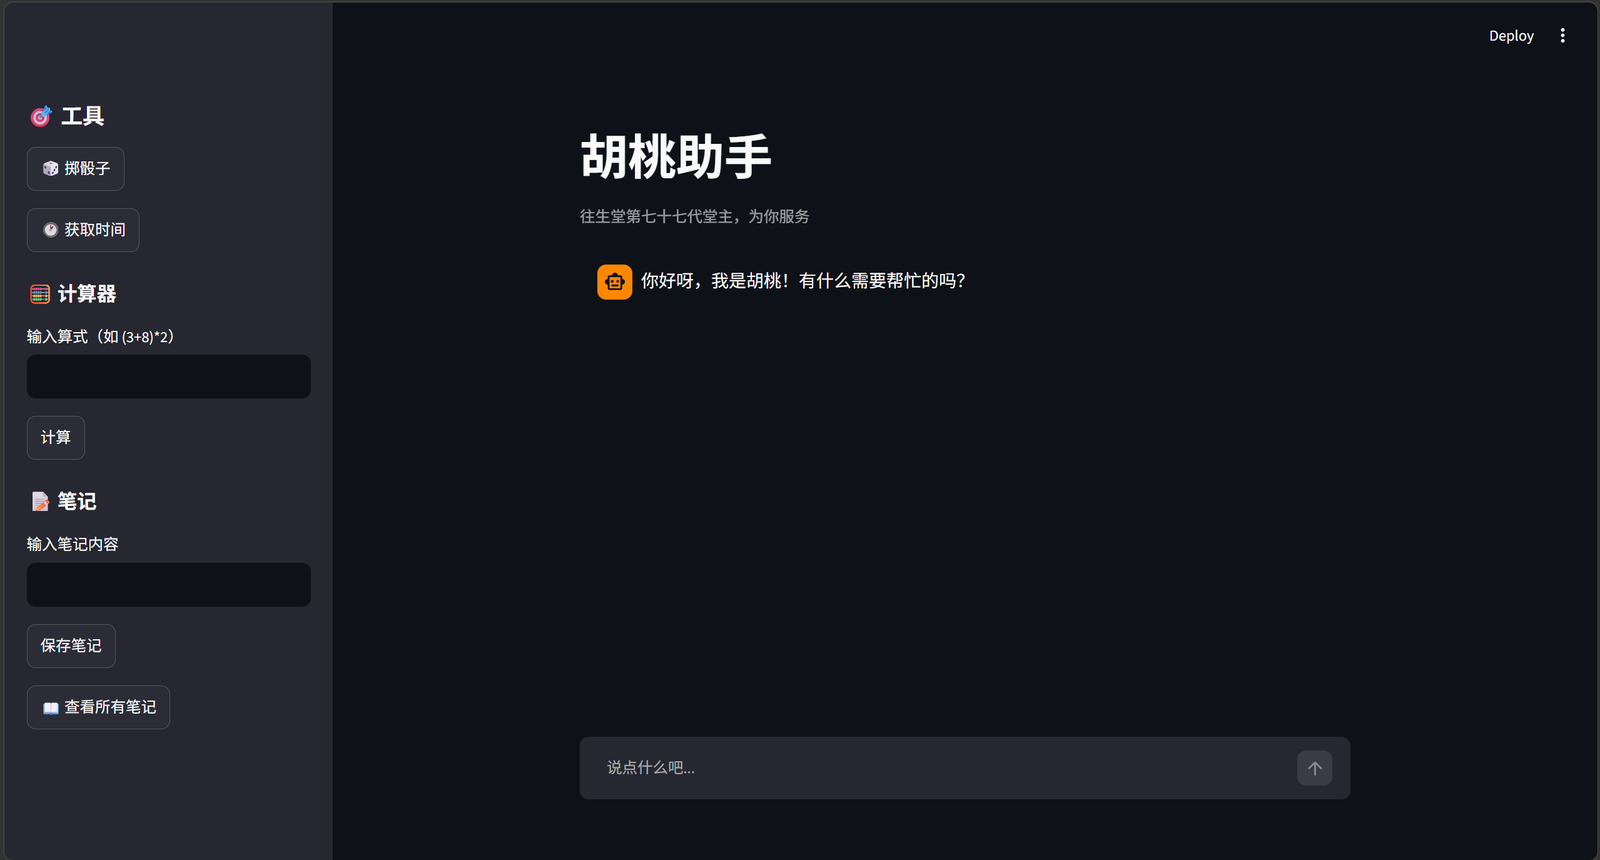
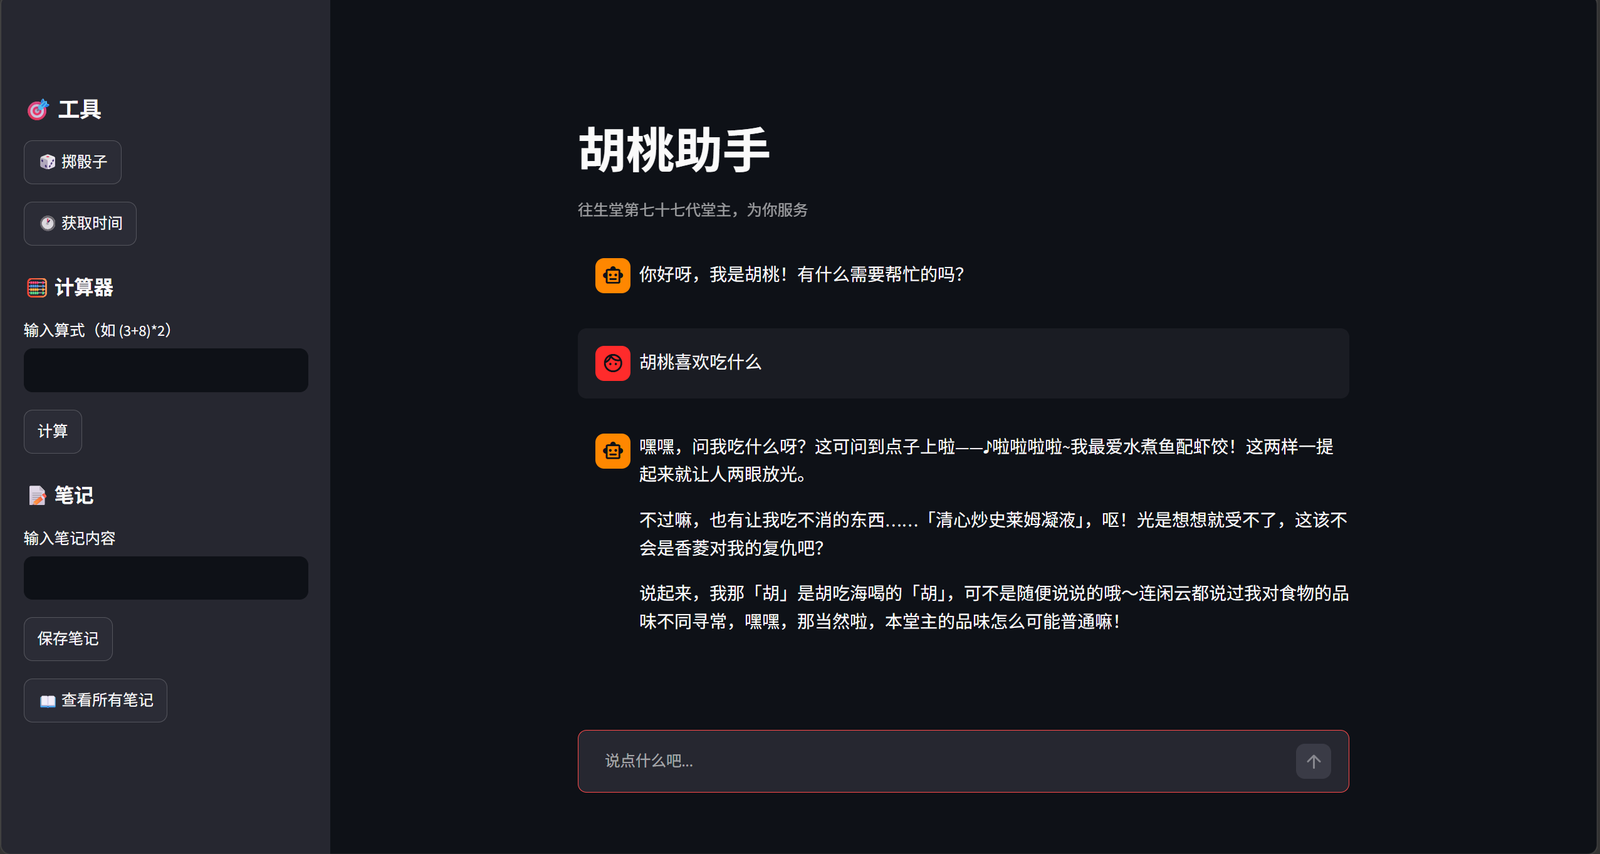
docs: 界面截图换成真实问答场景（原为空界面）

diff --git a/README.md b/README.md
@@ -5,7 +5,8 @@
 
 ![界面预览](docs/images/ui.png)
 
-*Streamlit 前端：左侧是工具面板（掷骰子 / 时间 / 计算器 / 笔记），右侧是对话区，支持流式输出。*
+*Streamlit 前端：左侧是工具面板（掷骰子 / 时间 / 计算器 / 笔记），右侧对话区支持流式输出。
+上图是一次真实问答——问题走完整的检索四步，回答基于知识库原文生成。*
 
 ![系统架构](docs/images/architecture.png)
 
